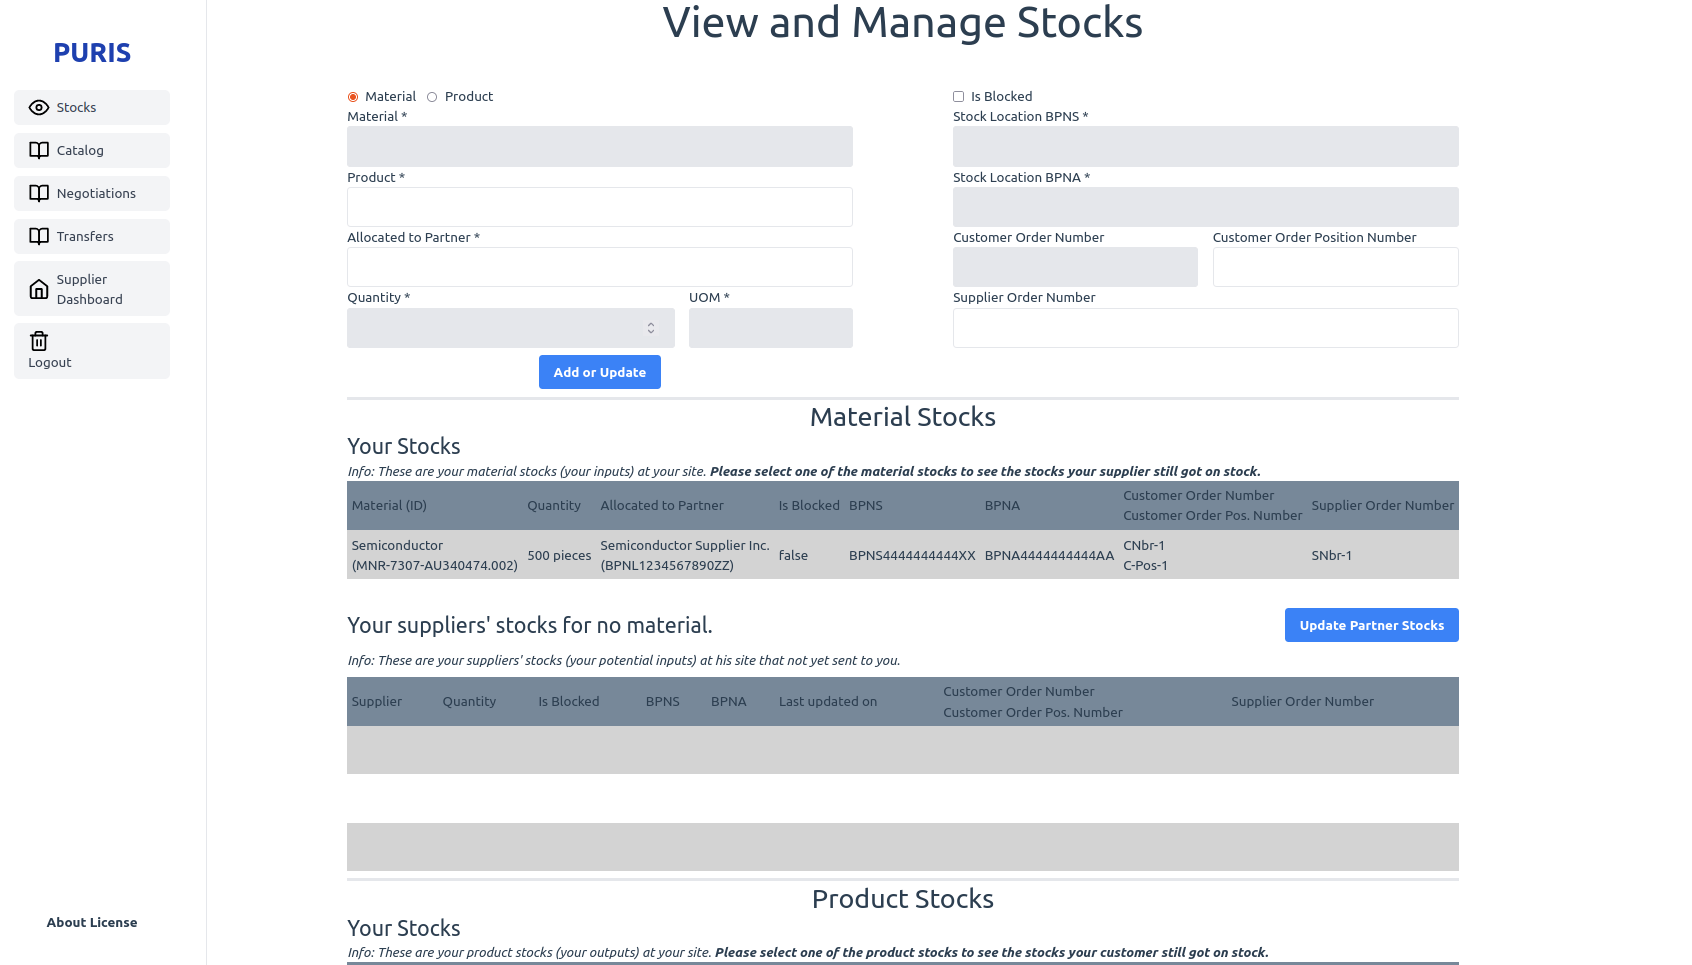
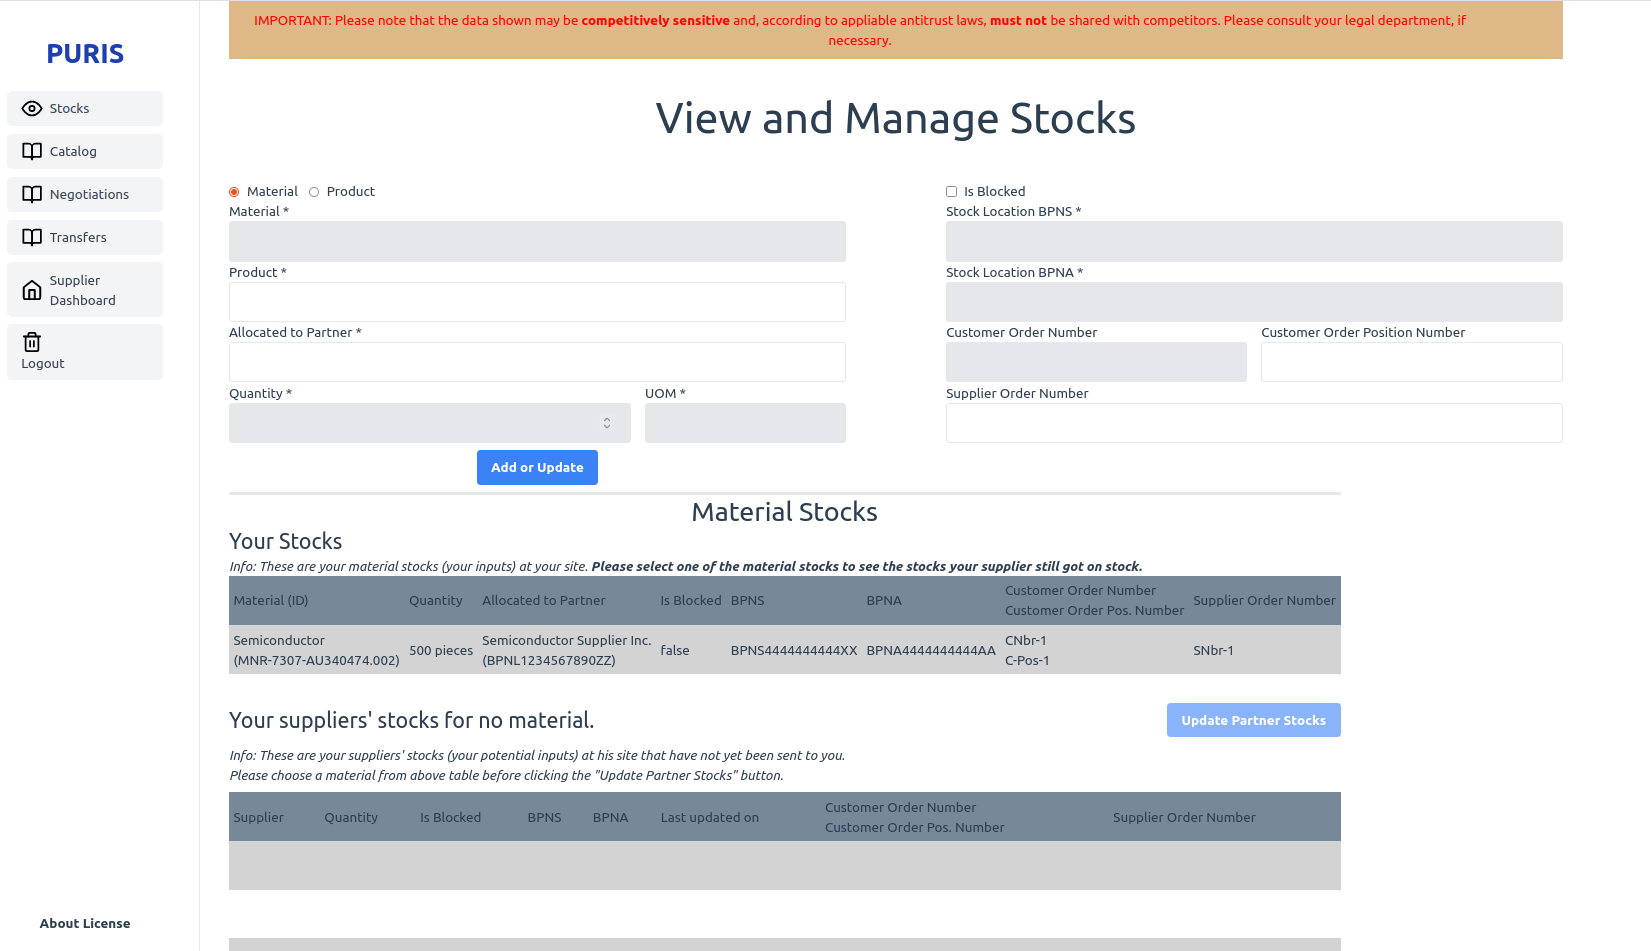
docs(UserGuide): updated stock view with images

diff --git a/docs/userGuide/User_Guide.md b/docs/userGuide/User_Guide.md
@@ -36,19 +36,28 @@ The view allows a user to either add a material (user selected radio button 'Mat
 
 The updated or created stocks can be seen in the related section after triggering button "Add or Update".
 
+![Stock View after adding a Material Stock](img/stock_view_added_material_stock.png)
+
 ### Material Stocks
 
 The table shows the relevant information regarding all material stocks that are at your sites. The user may select one
-stock to see which of the selected material are already allocated on supplier side. Using the button "Update Partner
-Stocks", the user may request an update of this data for all partners who supply the material.
+stock to see which of the selected material are already allocated to him on supplier side. All Stocks related to the
+material of the selected line are shown.
+
+![Stock View after selecting a Material Stock](img/stock_view_selected_material_stock.png)
+
+Using the button "Update Partner Stocks", the user may request an update of this data for all partners who supply the
+material.
 Note: Stock information is updated asynchronously. The user may reload the page later to see the updated data.
 
 ### Product Stocks
 
 The table shows the relevant information regarding all product stocks that are at your sites. The user may select one
-stock to see which of the selected products have already arrived on customer side but not be used for production. Using
-the button "Update Partner Stocks", the user may request an update of this data for all partners who buy the material.
+stock to see which of the selected products have already arrived at customer side but not be used for production. All
+Stocks related to the material of the selected line are shown. Using the button "Update Partner Stocks", the user may
+request an update of this data for all partners who buy the material.
 Note: Stock information is updated asynchronously. The user may reload the page later to see the updated data.
+Note 2: No images have been added, as the Product Stocks mechanics are the same as for material stocks.
 
 ## Supplier Dashboard
 
